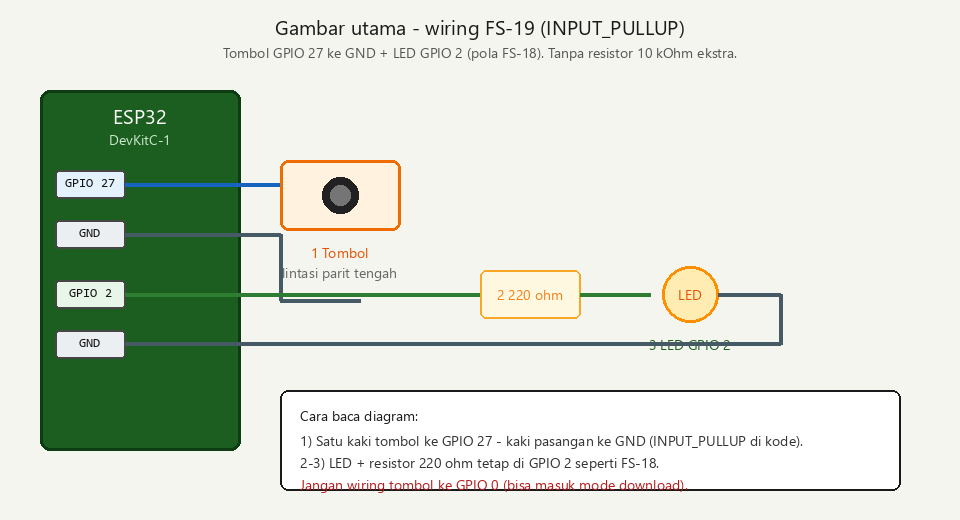
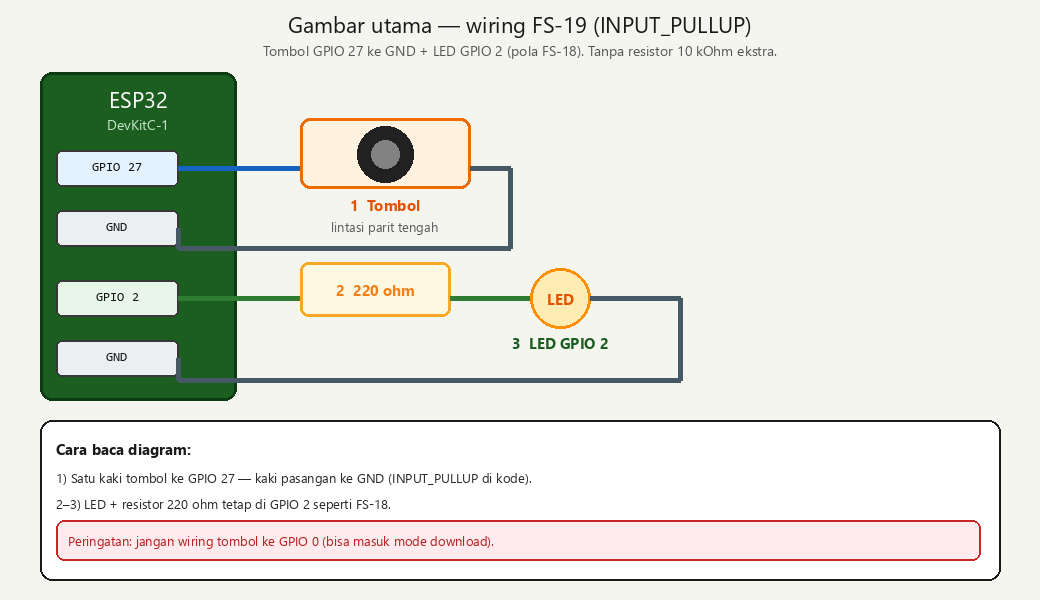
fix(fsiot): rapikan diagram wiring #89 (tanpa overlap/clip)
Label tombol dan peringatan GPIO 0 dipisah agar mudah dibaca awam.

Changed region(s): [[0.0312, 0.0308, 0.9688, 0.9846]]

diff --git a/database/seeders/Article89Seeder.php b/database/seeders/Article89Seeder.php
@@ -179,7 +179,7 @@ HTML;
     {
         return <<<'HTML'
 <figure style="margin:1.5rem 0;max-width:100%">
-  <img src="/images/fsiot/fs19-button-pullup-wiring.png" width="960" height="520" alt="Gambar utama — wiring tombol GPIO 27 INPUT_PULLUP dan LED GPIO 2" loading="eager" style="width:100%;height:auto;max-height:480px;object-fit:contain;border:2.5px solid #1a1a1a;border-radius:8px;background:#F5F5F0;padding:0.35rem">
+  <img src="/images/fsiot/fs19-button-pullup-wiring.png" width="1040" height="600" alt="Gambar utama — wiring tombol GPIO 27 INPUT_PULLUP dan LED GPIO 2" loading="eager" style="width:100%;height:auto;max-height:520px;object-fit:contain;border:2.5px solid #1a1a1a;border-radius:8px;background:#F5F5F0;padding:0.35rem">
   <figcaption style="font-size:0.85rem;margin-top:0.5rem;color:#4A5568;">
     <strong>Gambar utama:</strong> jalur tombol <strong>GPIO 27 → tombol → GND</strong> (pakai <code>INPUT_PULLUP</code> di kode) + LED di <strong>GPIO 2</strong>.
     <br>Sumber gambar: diagram berlabel buatan Koding Indonesia (FS-19).
@@ -192,7 +192,7 @@ HTML;
     {
         return <<<'HTML'
 <figure style="margin:1.5rem 0;max-width:100%">
-  <img src="/images/fsiot/fs19-button-pullup-wiring.png" width="960" height="520" alt="Main figure — GPIO 27 INPUT_PULLUP button wiring and GPIO 2 LED" loading="eager" style="width:100%;height:auto;max-height:480px;object-fit:contain;border:2.5px solid #1a1a1a;border-radius:8px;background:#F5F5F0;padding:0.35rem">
+  <img src="/images/fsiot/fs19-button-pullup-wiring.png" width="1040" height="600" alt="Main figure — GPIO 27 INPUT_PULLUP button wiring and GPIO 2 LED" loading="eager" style="width:100%;height:auto;max-height:520px;object-fit:contain;border:2.5px solid #1a1a1a;border-radius:8px;background:#F5F5F0;padding:0.35rem">
   <figcaption style="font-size:0.85rem;margin-top:0.5rem;color:#4A5568;">
     <strong>Main figure:</strong> button path <strong>GPIO 27 → button → GND</strong> (use <code>INPUT_PULLUP</code> in code) + LED on <strong>GPIO 2</strong>.
     <br>Image source: labeled diagram by Koding Indonesia (FS-19).
